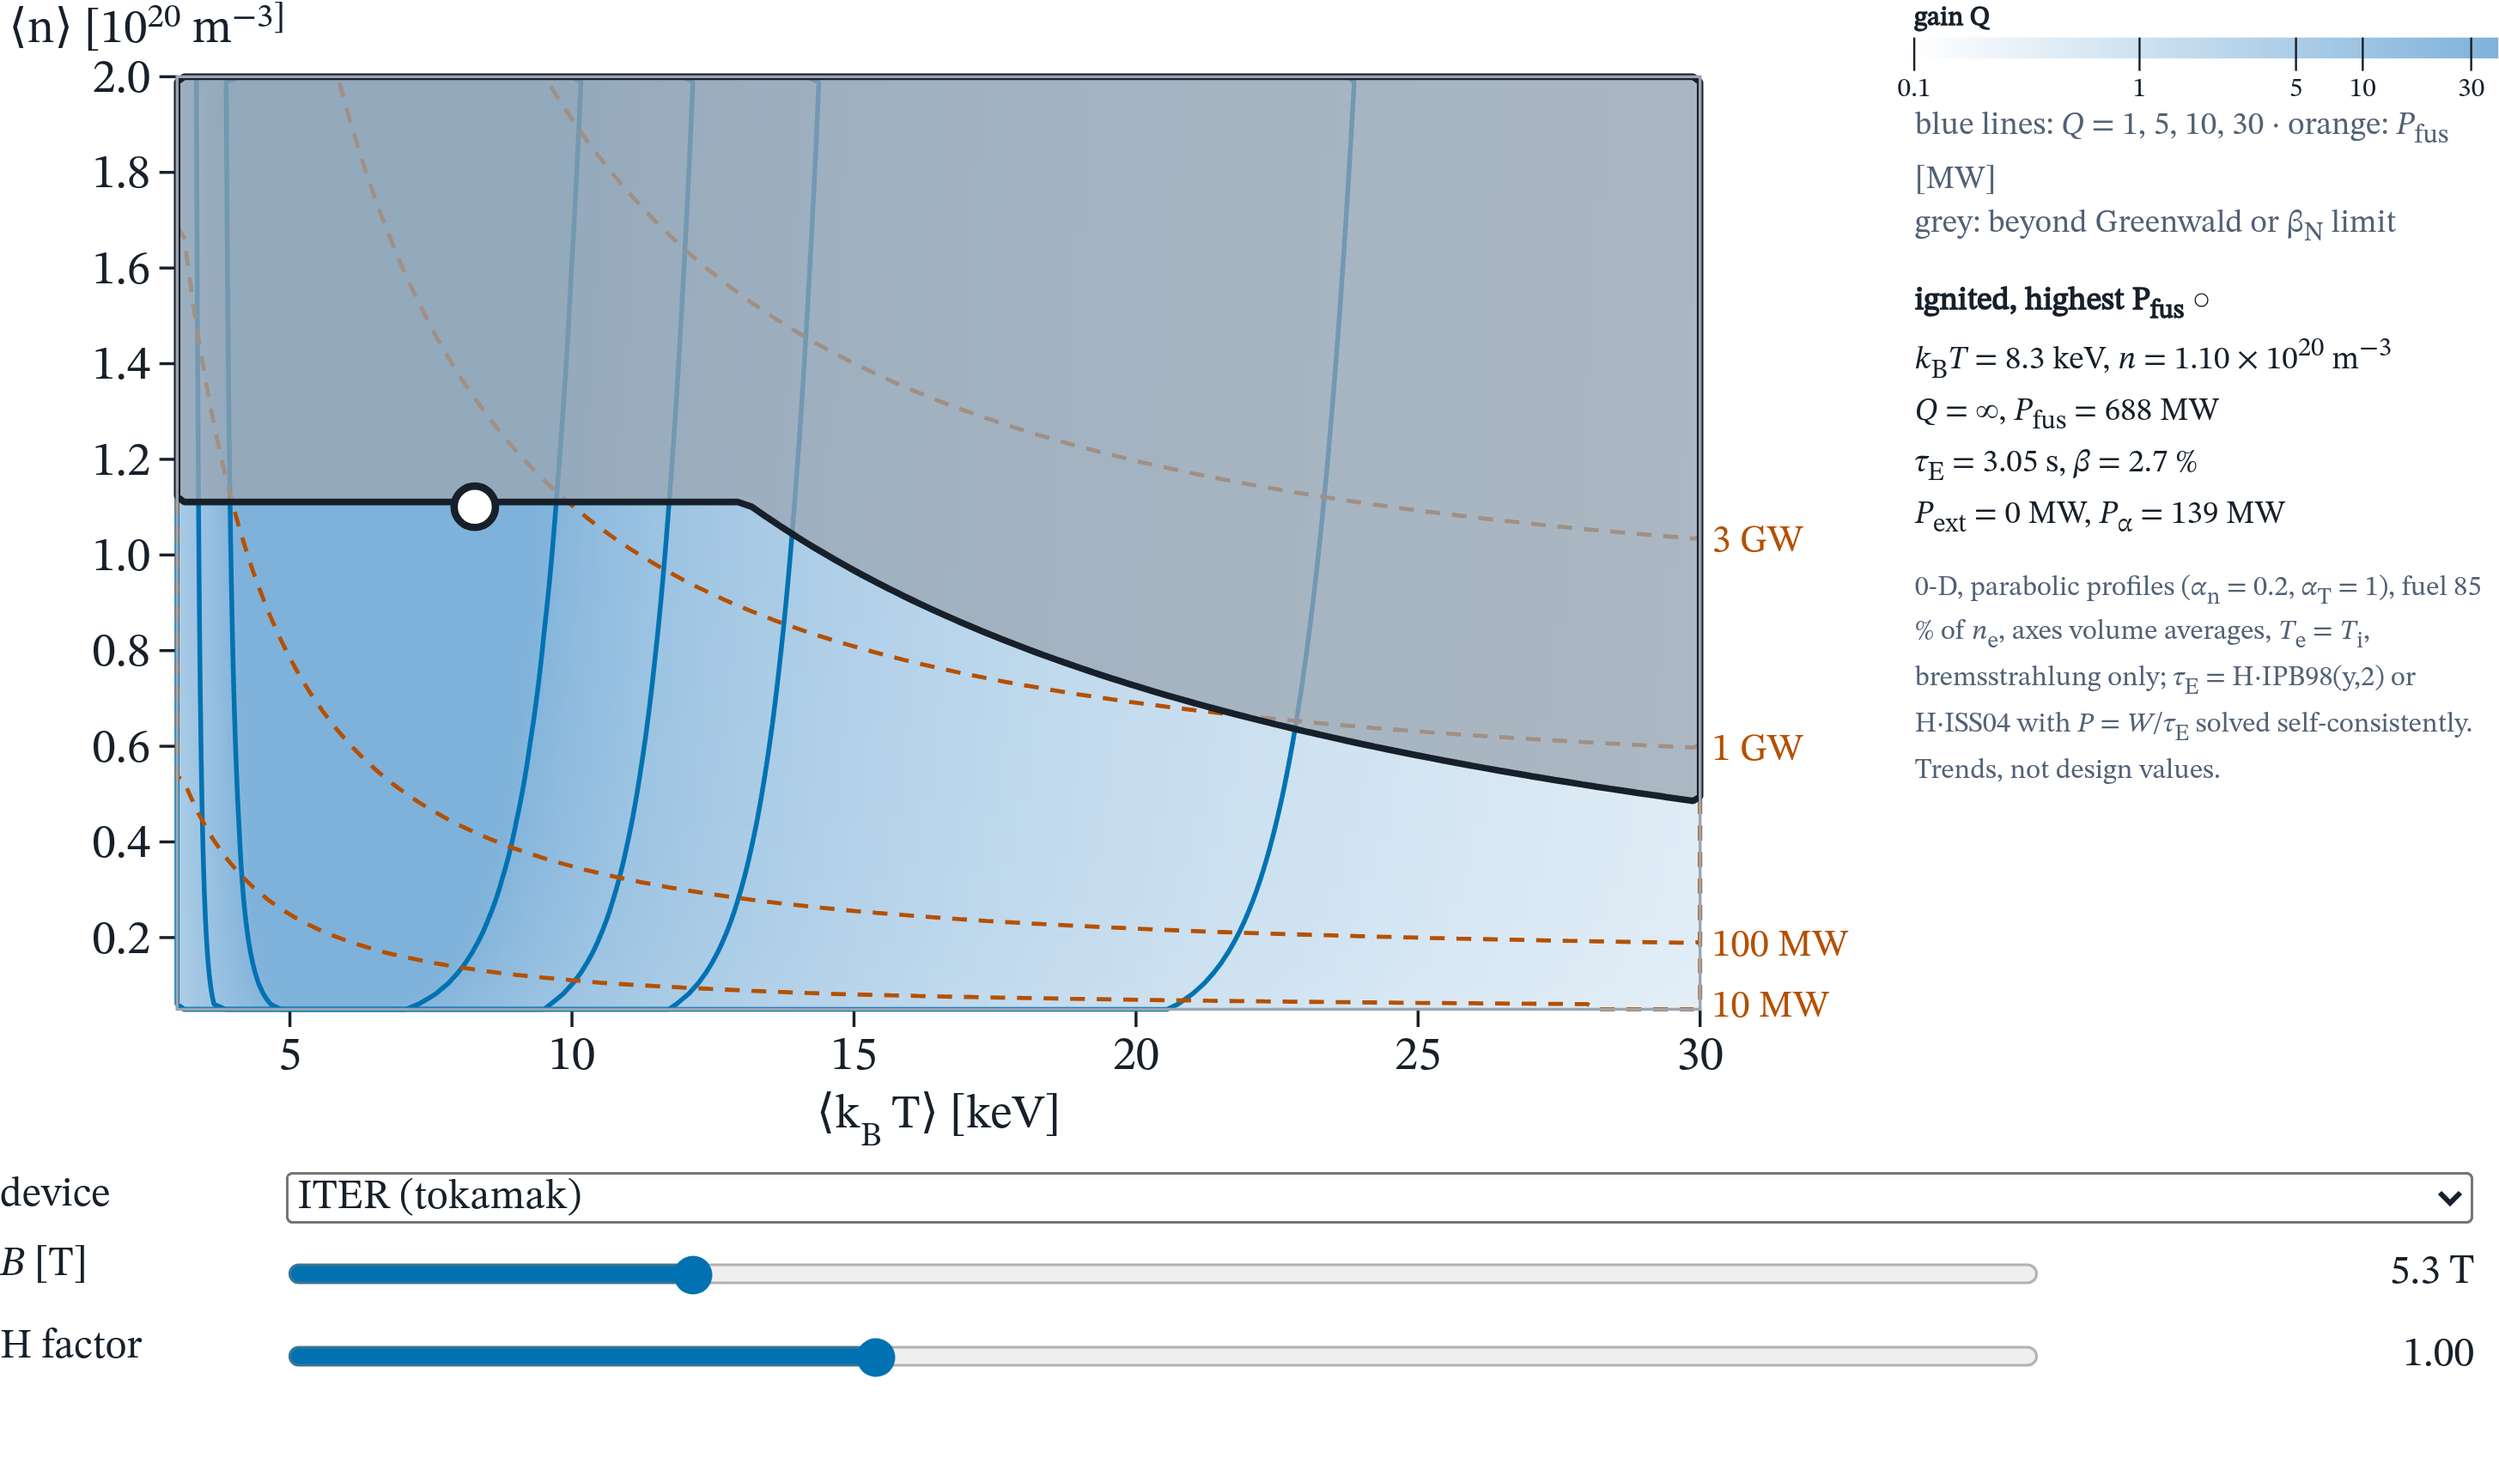
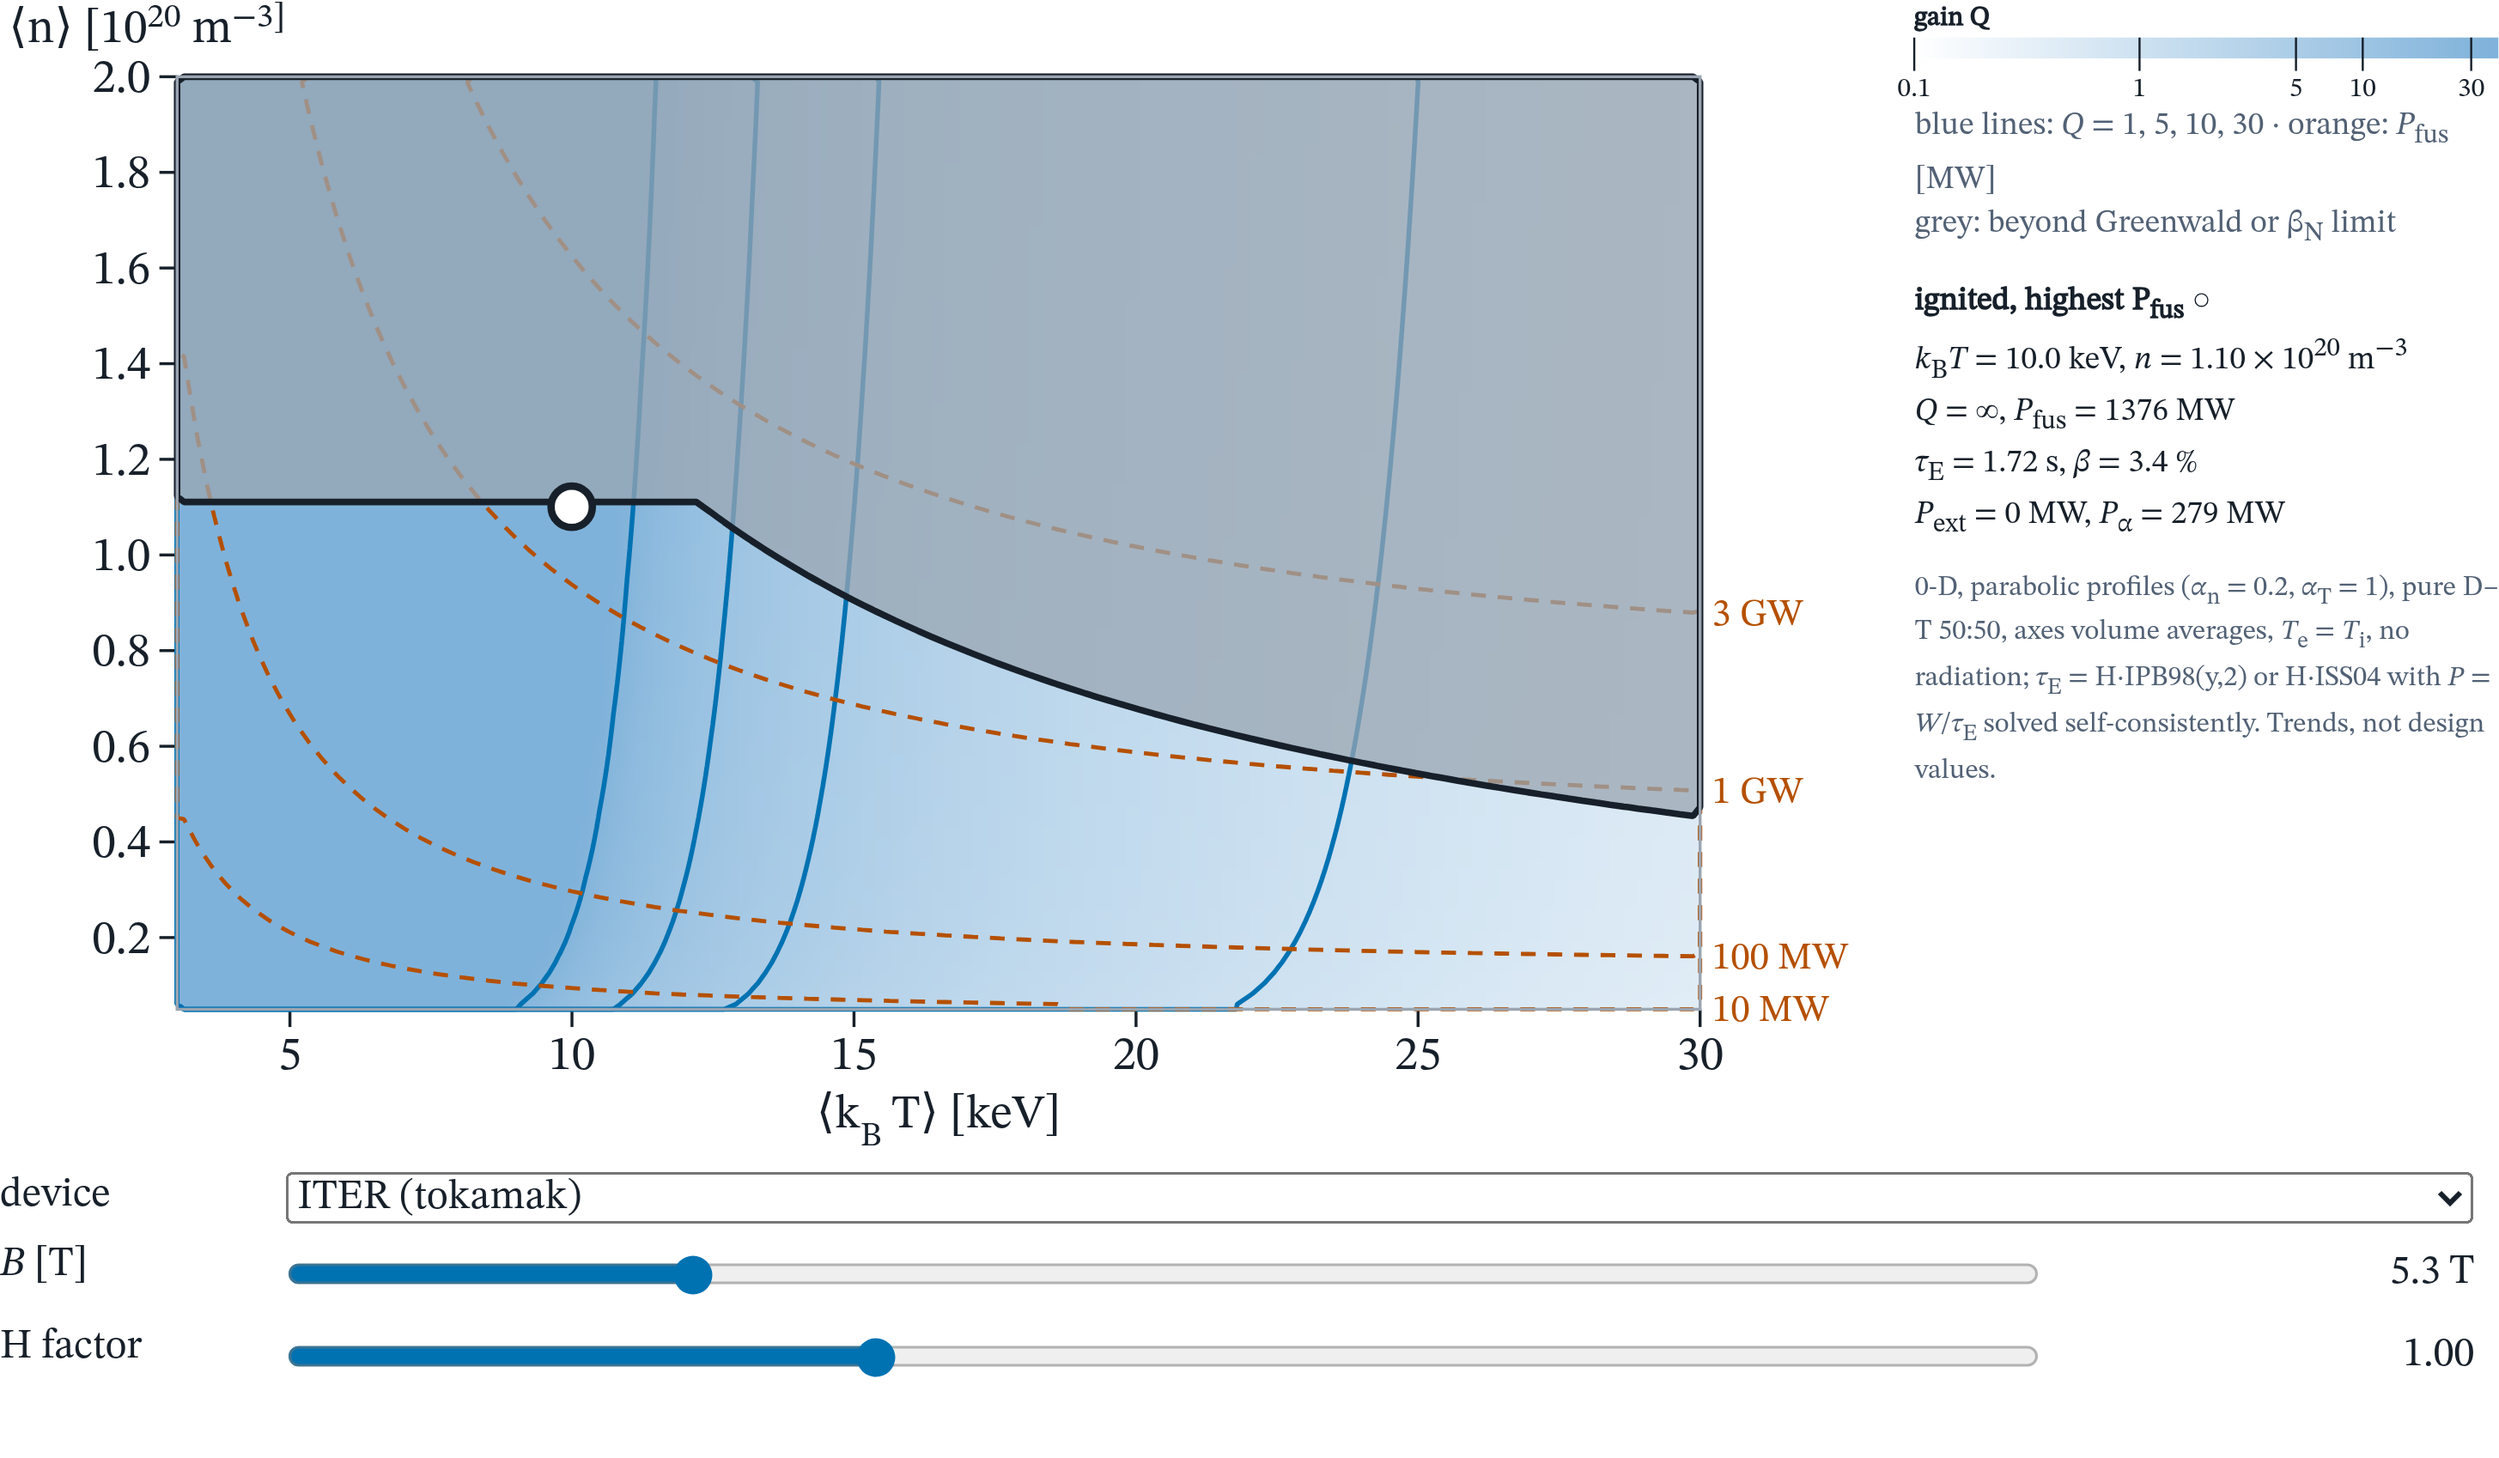
Operating-space widget without radiation and dilution (#4)
* Operating-space widget: pure D-T without radiation, as taught so far

* Operating-space widget poster without radiation

diff --git a/notebooks/slide-popcon.html b/notebooks/slide-popcon.html
@@ -12,7 +12,7 @@
 <div id="inputs"></div>
 <script type="module">
 import {Plot, Inputs, html, font, sub, readout, run} from "./widget.js";
-import {reactivity, KEV, E_FUS, E_ALPHA, C_B} from "./fusion.js";
+import {reactivity, KEV, E_FUS, E_ALPHA} from "./fusion.js";
 import {INK, MUTED, GREY, BLUE, ORANGE} from "./plotting.js";
 import rx from "./data/reactivity.json" with {type: "json"};
 
@@ -28,7 +28,6 @@ const devices = {
 // Volume-averaged n = n_e and T (T_e = T_i); parabolic profiles
 // n = n0 (1 - s)^an, T = T0 (1 - s)^aT in s = rho^2 (dV = V ds). Powers in MW.
 const an = 0.2;
-const fuel = 0.85;   // n_D + n_T = 0.85 n_e (helium ash and impurities); n_i = 0.87 n_e
 const aT = 1.0;
 const lgamma = (z) => {  // Lanczos, z > 0
   const g = 7, c = [0.99999999999980993, 676.5203681218851, -1259.1392167224028, 771.32342877765313,
@@ -41,15 +40,14 @@ const Tdom = [3, 30];
 
 const model = (d, H) => (n20, T) => {
   const n = n20 * 1e20, V = 2 * Math.PI ** 2 * d.R * d.a * d.a * d.kappa, K = 24;
-  let fus = 0, br = 0;
+  let fus = 0;
   for (let k = 0; k < K; k++) {
     const s = (k + 0.5) / K, nk = n * (1 + an) * (1 - s) ** an, Tk = Math.max(T * (1 + aT) * (1 - s) ** aT, 0.05);
-    fus += (fuel * nk) ** 2 / 4 * reactivity(rx, "DT", Tk) / K;
-    br += nk * nk * Math.sqrt(Tk) / K;
+    fus += nk ** 2 / 4 * reactivity(rx, "DT", Tk) / K;
   }
-  const W = 1.5 * (1 + fuel + 0.02) * n * T * KEV * V / 1e6 * (1 + an) * (1 + aT) / (1 + an + aT);   // MJ
+  const W = 1.5 * 2 * n * T * KEV * V / 1e6 * (1 + an) * (1 + aT) / (1 + an + aT);   // MJ
   const Pf = fus * E_FUS * KEV * V / 1e6;
-  const Pa = Pf * E_ALPHA / E_FUS, Pb = C_B * br * V / 1e6;
+  const Pa = Pf * E_ALPHA / E_FUS;
   const nl19 = 10 * n20 * nLine;
   // tau_E = A P^-alpha with the loss power P = W / tau_E solved exactly: P = (W/A)^(1/(1-alpha)).
   let A, alpha;
@@ -61,12 +59,12 @@ const model = (d, H) => (n20, T) => {
     alpha = 0.61;
   }
   const P = (W / A) ** (1 / (1 - alpha)), tau = W / P;
-  const Pext = P + Pb - Pa, Q = Pext > 0 ? Pf / Pext : Infinity;
+  const Pext = P - Pa, Q = Pext > 0 ? Pf / Pext : Infinity;
   const beta = 2 * 4e-7 * Math.PI * 2 * W * 1e6 / 3 / V / (d.B * d.B);
   const limit = d.kind === "tok"
     ? Math.max(nl19 / 10 / (d.I / (Math.PI * d.a * d.a)), beta / (d.betaN * 0.01 * d.I / (d.a * d.B)))
     : Math.max(beta / d.betaMax, nl19 / 10 / (0.25 * Math.sqrt(Math.max(Pa + Math.max(Pext, 0), 1e-6) * d.B / (d.a * d.a * d.R))));
-  return {Pf, Pa, Pb, P, Pext, Q, tau, beta, W, limit, allowed: limit <= 1};
+  return {Pf, Pa, P, Pext, Q, tau, beta, W, limit, allowed: limit <= 1};
 };
 
 const qLegend = () => Plot.legend({color: {type: "linear", domain: [-1, 1.6], range: ["#FFFFFF", "#7FB2DA"]}, width: 280, label: "gain Q",
@@ -127,7 +125,7 @@ function draw({device, Bfield, H}, inputs) {
   <i>Q</i> = ${best.ign ? "∞" : best.b.Q.toFixed(1)}, <i>P</i><sub>fus</sub> = ${best.b.Pf.toFixed(0)} MW<br>
   <i>τ</i><sub>E</sub> = ${best.b.tau.toFixed(2)} s, <i>β</i> = ${(100 * best.b.beta).toFixed(1)} %<br>
   <i>P</i><sub>ext</sub> = ${Math.max(best.b.Pext, 0).toFixed(0)} MW, <i>P</i><sub>α</sub> = ${best.b.Pa.toFixed(0)} MW</div>` : html`<div style="margin-top:0.6rem">no allowed point with net heating</div>`}
-  <div style="color:${MUTED};margin-top:0.6rem;font-size:0.68rem">0-D, parabolic profiles (<i>α</i><sub>n</sub> = 0.2, <i>α</i><sub>T</sub> = 1), fuel 85 % of <i>n</i><sub>e</sub>, axes volume averages, <i>T</i><sub>e</sub> = <i>T</i><sub>i</sub>, bremsstrahlung only; <i>τ</i><sub>E</sub> = H·IPB98(y,2) or H·ISS04 with <i>P</i> = <i>W</i>/<i>τ</i><sub>E</sub> solved self-consistently. Trends, not design values.</div>
+  <div style="color:${MUTED};margin-top:0.6rem;font-size:0.68rem">0-D, parabolic profiles (<i>α</i><sub>n</sub> = 0.2, <i>α</i><sub>T</sub> = 1), pure D–T 50:50, axes volume averages, <i>T</i><sub>e</sub> = <i>T</i><sub>i</sub>, no radiation; <i>τ</i><sub>E</sub> = H·IPB98(y,2) or H·ISS04 with <i>P</i> = <i>W</i>/<i>τ</i><sub>E</sub> solved self-consistently. Trends, not design values.</div>
 </div></div>`;
 }
 

diff --git a/slides/05-magnetic-confinement.md b/slides/05-magnetic-confinement.md
@@ -28,5 +28,5 @@ and last the limits of a real machine (pages moved from Chapter 4).
 | 13 | 5.7 Pressure and density limits | Opening question: Chapter 4 placed the reactor in the Lawson landscape; what decides where a machine can sit is how high it can go in pressure and density. Pressure, not density, is what the magnet holds: p = 2nk_BT, so p_fus ∝ p²⟨σv⟩/T² — the 13.5 keV optimum of section 2.20 is a fixed-pressure optimum. With β: P_fus ∝ β²B⁴V, doubling B gives 16 times the power density. Density limit as one line (Greenwald, empirical); scaling laws come with transport. |
 | 14 | Widget `limits` | Fixed τ_E: colour = τ_E needed for Q; density line n_max, pressure line p_max = β_max B²/2μ₀. Optimum = crossing T× = p_max/2n_max clamped to [13.5, 25.7] keV; stellarator toggle drops the density limit → 13.5 keV. Defaults B = 6 T, β = 4.5 %, n_max = 10²⁰: 20 keV, 1.55 s. |
 | 15 | Limits and confinement scaling | Tokamak T× ≈ 0.39 β_N a B/f_GW keV (I_p cancels): ITER 8.8 keV, EU-DEMO 13.8 keV. IPB98(y,2) and ISS04 with coefficients; τ_E falls with heating power, so at the β limit τ_E ∝ T^−1.3 and the optimum moves to 6–9 keV. |
-| 16 | Widget `popcon` | 0-D operating space with parabolic profiles, 85 % fuel, bremsstrahlung, τ_E = H·IPB98 or H·ISS04 solved with P = W/τ_E. Presets ITER, SPARC, ARC, W7-X, HELIAS 5-B; B and H sliders. Best point sits on a limit near 6–9 keV; the region of high Q is broad. Without core radiation ITER comes out ignited at H = 1; H = 0.85 gives Q ≈ 15, H = 0.8 gives Q ≈ 9 (best point near 5–6 keV on the Greenwald line) — say this. |
+| 16 | Widget `popcon` | 0-D operating space with parabolic profiles, pure D-T 50:50 and no radiation (both not yet taught), tau_E = H IPB98 or H ISS04 solved with P = W/tau_E. Presets ITER, SPARC, ARC, W7-X, HELIAS 5-B; B and H sliders. Best point sits on a limit. Without radiation and dilution the model is optimistic: ITER ignites at H = 1 (1.4 GW at 10 keV on the Greenwald line) and still at H = 0.85; H = 0.8 gives Q of about 80. Say that radiation and impurities lower this and come later. |
 | 17 | Widget `machines` | Wurzel & Hsu records in n–T, n–τ_E, T–τ_E and the Lawson plane; no present machine reaches the reactor window in all three at once; ITER and SPARC design points. Q bands are in peak values like the data (Wurzel & Hsu Eq. 45: peaked T, broad n, Z_eff 1.5–3.4, fixed 2026-11-09 after Lecture 4): the JET 1991 and JT-60U records fall below Q = 1, not above; the ITER and SPARC design points lie in the Q ≈ 10 to ignition band. |
